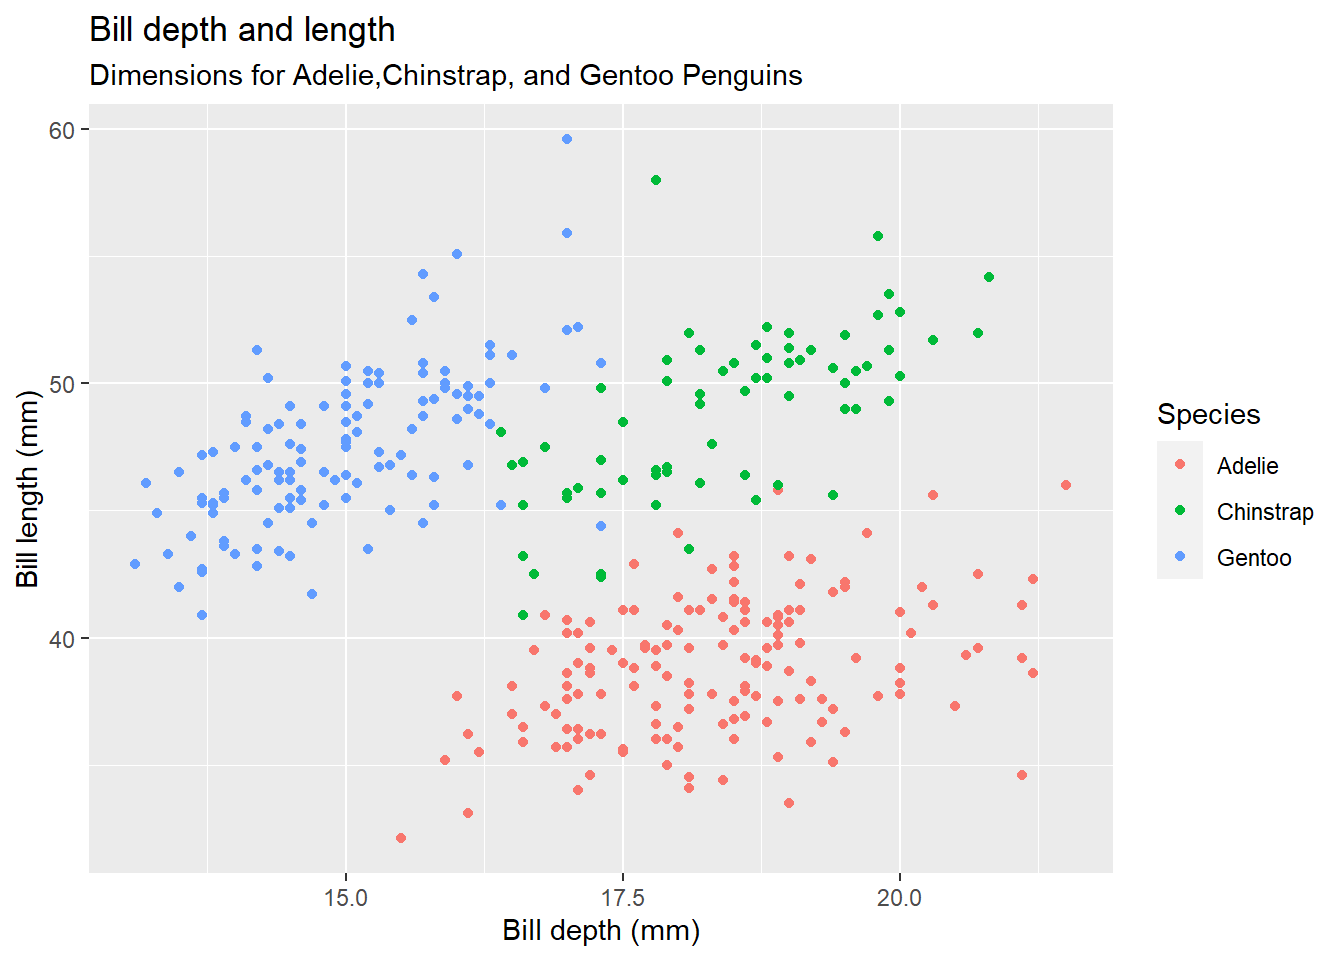
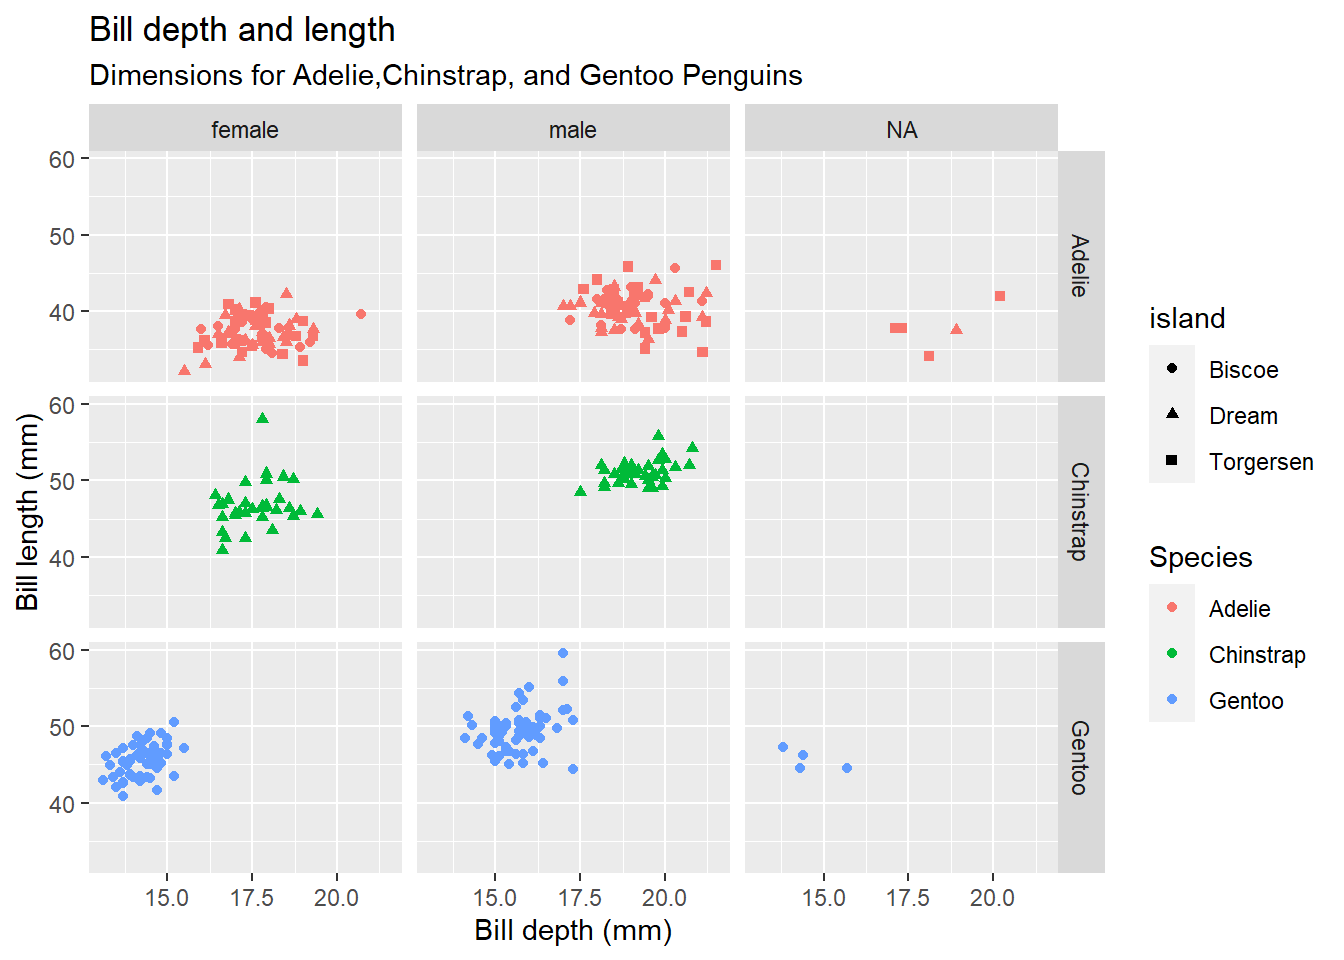
Data with ggplot2

diff --git a/public/2021/05/18/data-visulization-using-ggplot2/index.html b/public/2021/05/18/data-visulization-using-ggplot2/index.html
@@ -57,7 +57,7 @@
 
   <article class="article">
     
-    <span class="article-duration">0 min read</span>
+    <span class="article-duration">1 min read</span>
     
 
     <h1 class="article-title">Data visualisation using ggplot2</h1>
@@ -71,6 +71,10 @@
 <script src="/2021/05/18/data-visulization-using-ggplot2/index_files/header-attrs/header-attrs.js"></script>
 
 
+<div id="palmer-penguins-data-visualisation" class="section level2">
+<h2>palmer Penguins Data Visualisation</h2>
+<p><img src="/2021/05/18/data-visulization-using-ggplot2/index_files/figure-html/unnamed-chunk-1-1.png" width="672" /></p>
+</div>
 
     </div>
   </article>

diff --git a/content/post/2021-05-18-data-visulization-using-ggplot2/index.html b/content/post/2021-05-18-data-visulization-using-ggplot2/index.html
@@ -11,3 +11,7 @@ tags: []
 <script src="{{< blogdown/postref >}}index_files/header-attrs/header-attrs.js"></script>
 
 
+<div id="palmer-penguins-data-visualisation" class="section level2">
+<h2>palmer Penguins Data Visualisation</h2>
+<p><img src="{{< blogdown/postref >}}index_files/figure-html/unnamed-chunk-1-1.png" width="672" /></p>
+</div>
